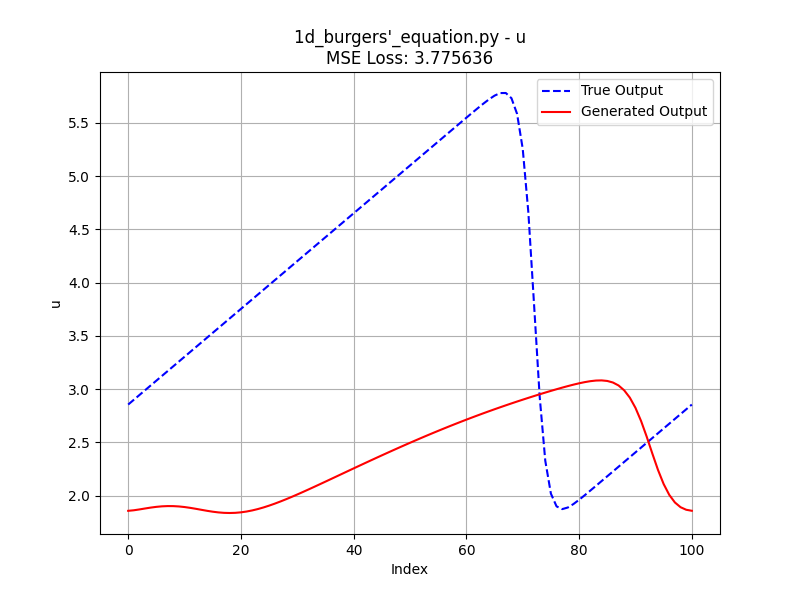
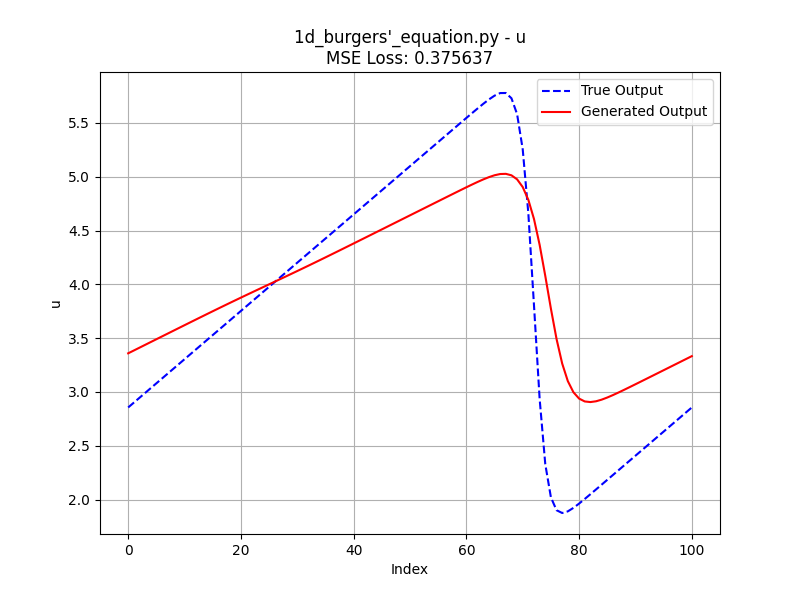
time step mismatch sometimes, next time will define the final time be the same, how about T=5s

diff --git a/generated_python_files/1d_burgers'_equation.py b/generated_python_files/1d_burgers'_equation.py
@@ -8,8 +8,9 @@ nu = 0.07  # Viscosity
 Lx = 2 * np.pi  # Domain length
 Nx = 101  # Number of spatial points
 dx = Lx / (Nx - 1)  # Grid spacing
-sigma = 0.2  # CFL-like parameter for stability
-dt = sigma * dx**2 / nu  # Time step
+# sigma = 0.2  # CFL-like parameter for stability
+# dt = sigma * dx**2 / nu  # Time step
+dt = 0.002
 Nt = 200  # Number of time steps
 
 # Define spatial grid

diff --git a/solution_python_files/1d_burgers'_equation.py b/solution_python_files/1d_burgers'_equation.py
@@ -21,7 +21,6 @@ nt = 200
 dx = 2 * numpy.pi / (nx - 1)
 nu = .07
 dt = 0.002
-
 x = numpy.linspace(0, 2 * numpy.pi, nx)
 un = numpy.empty(nx)
 t = 0
